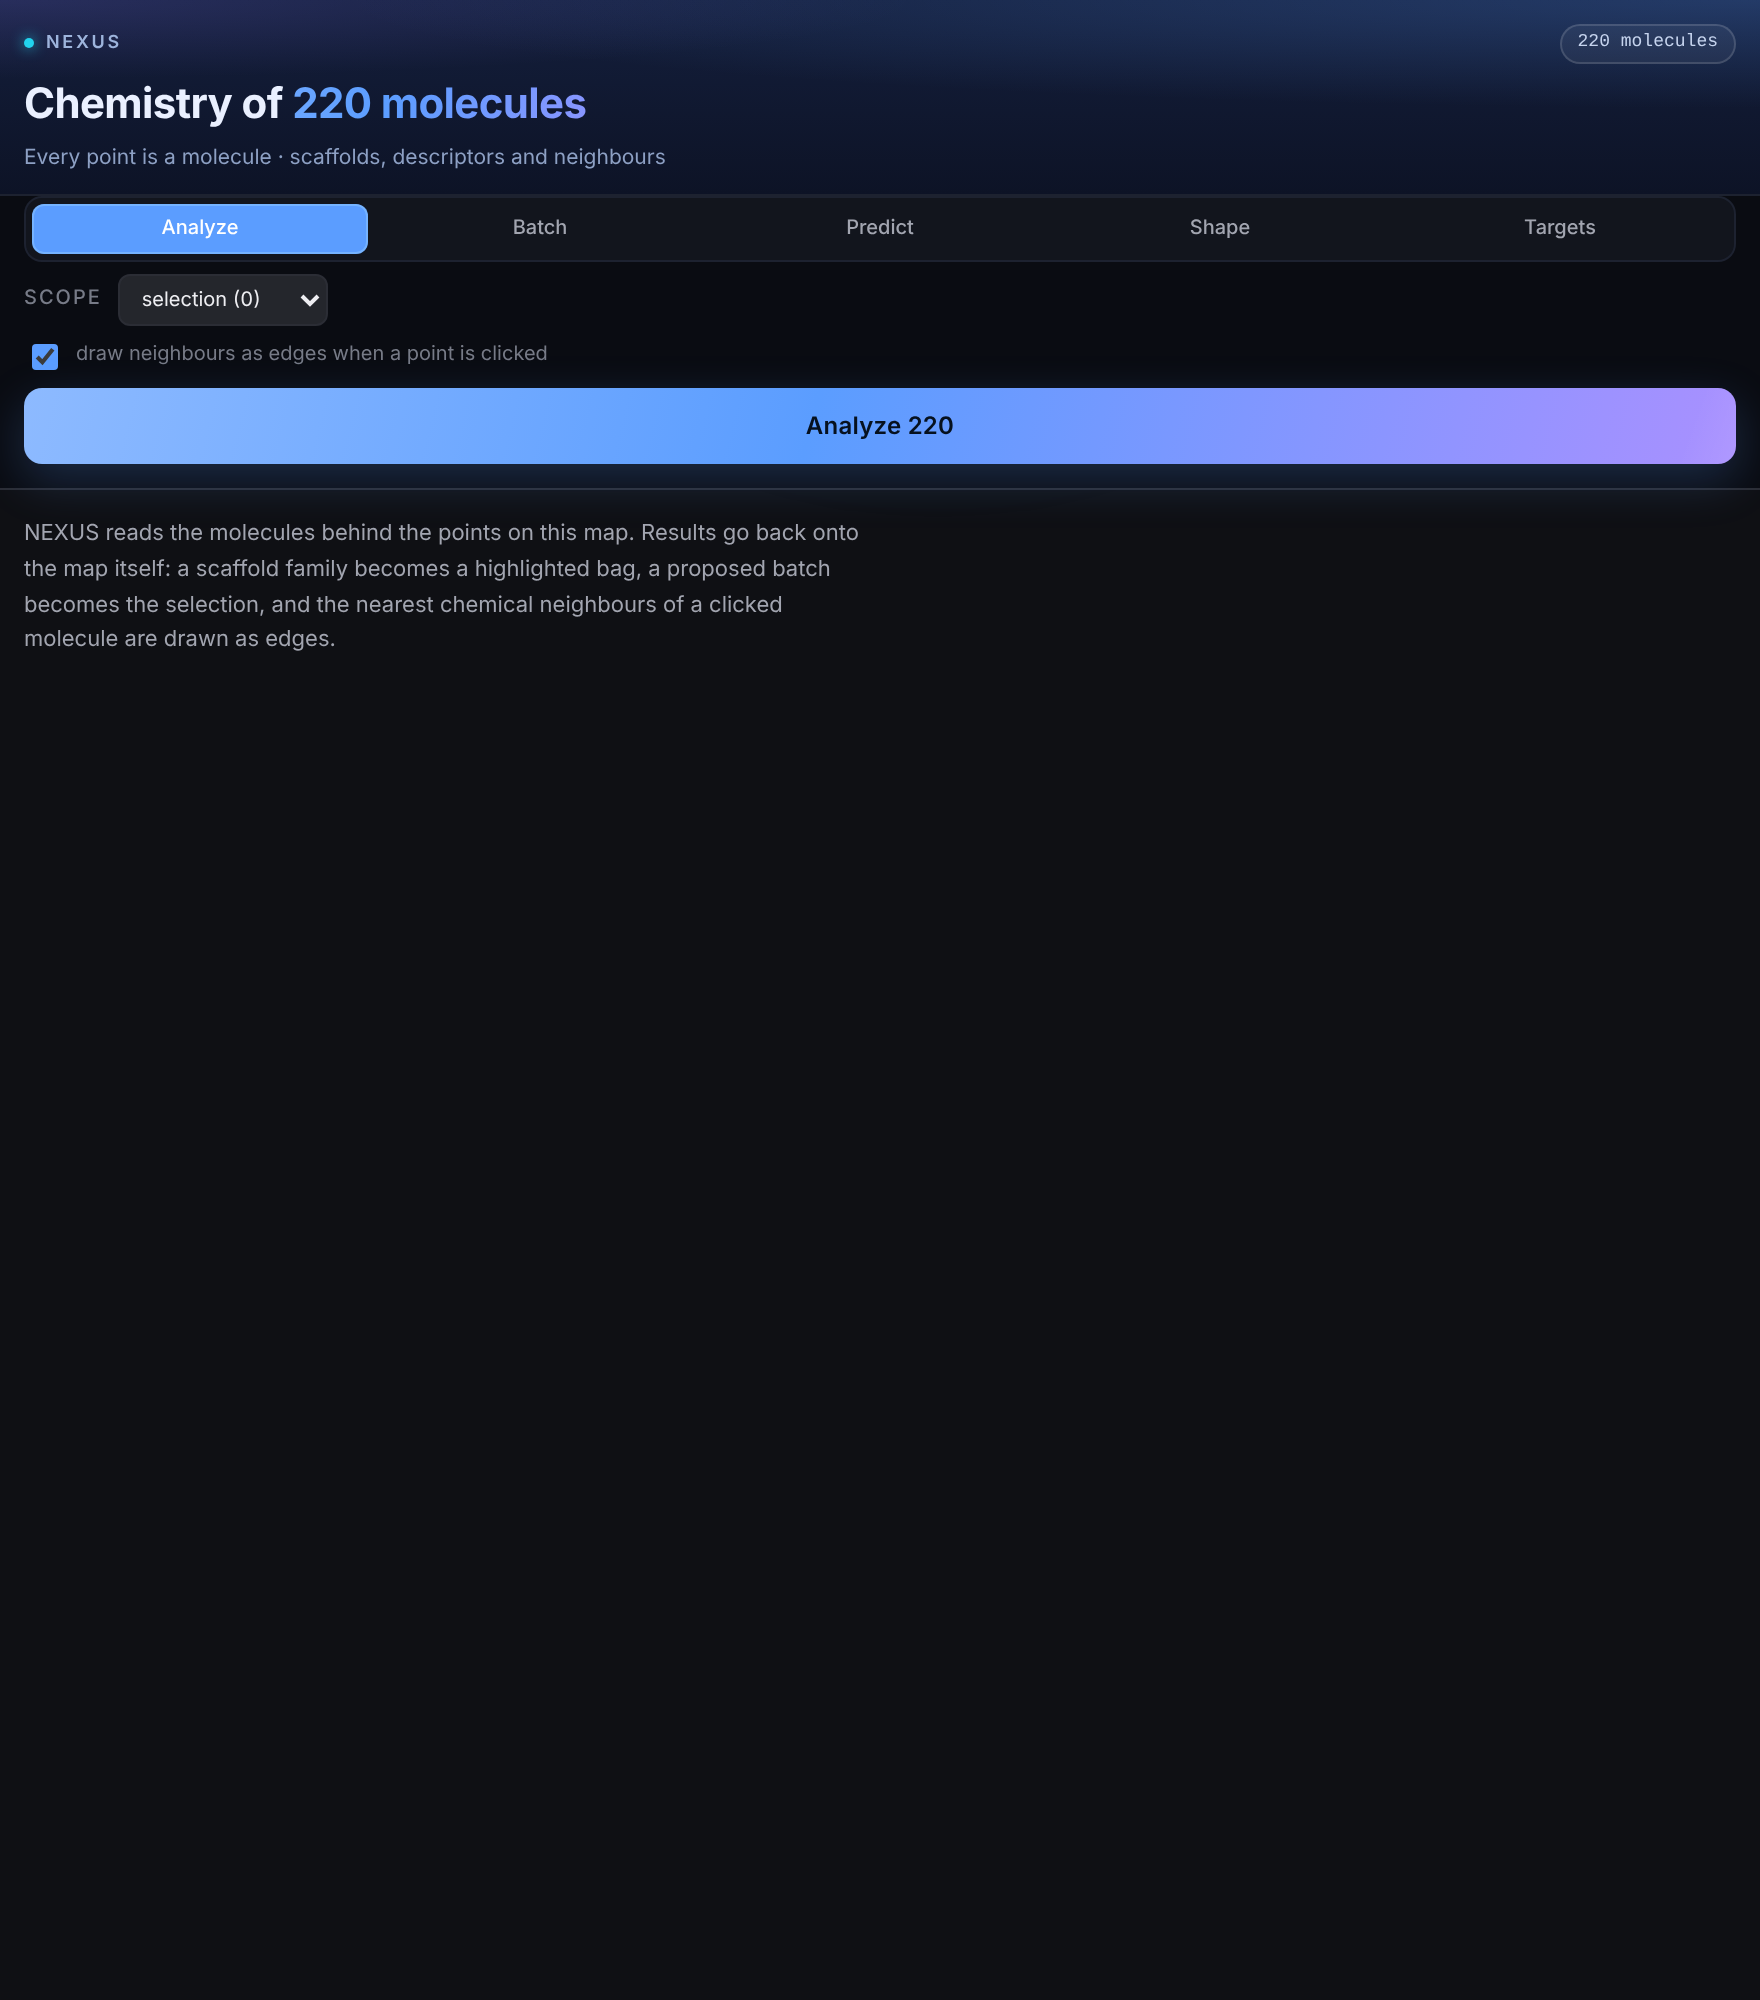
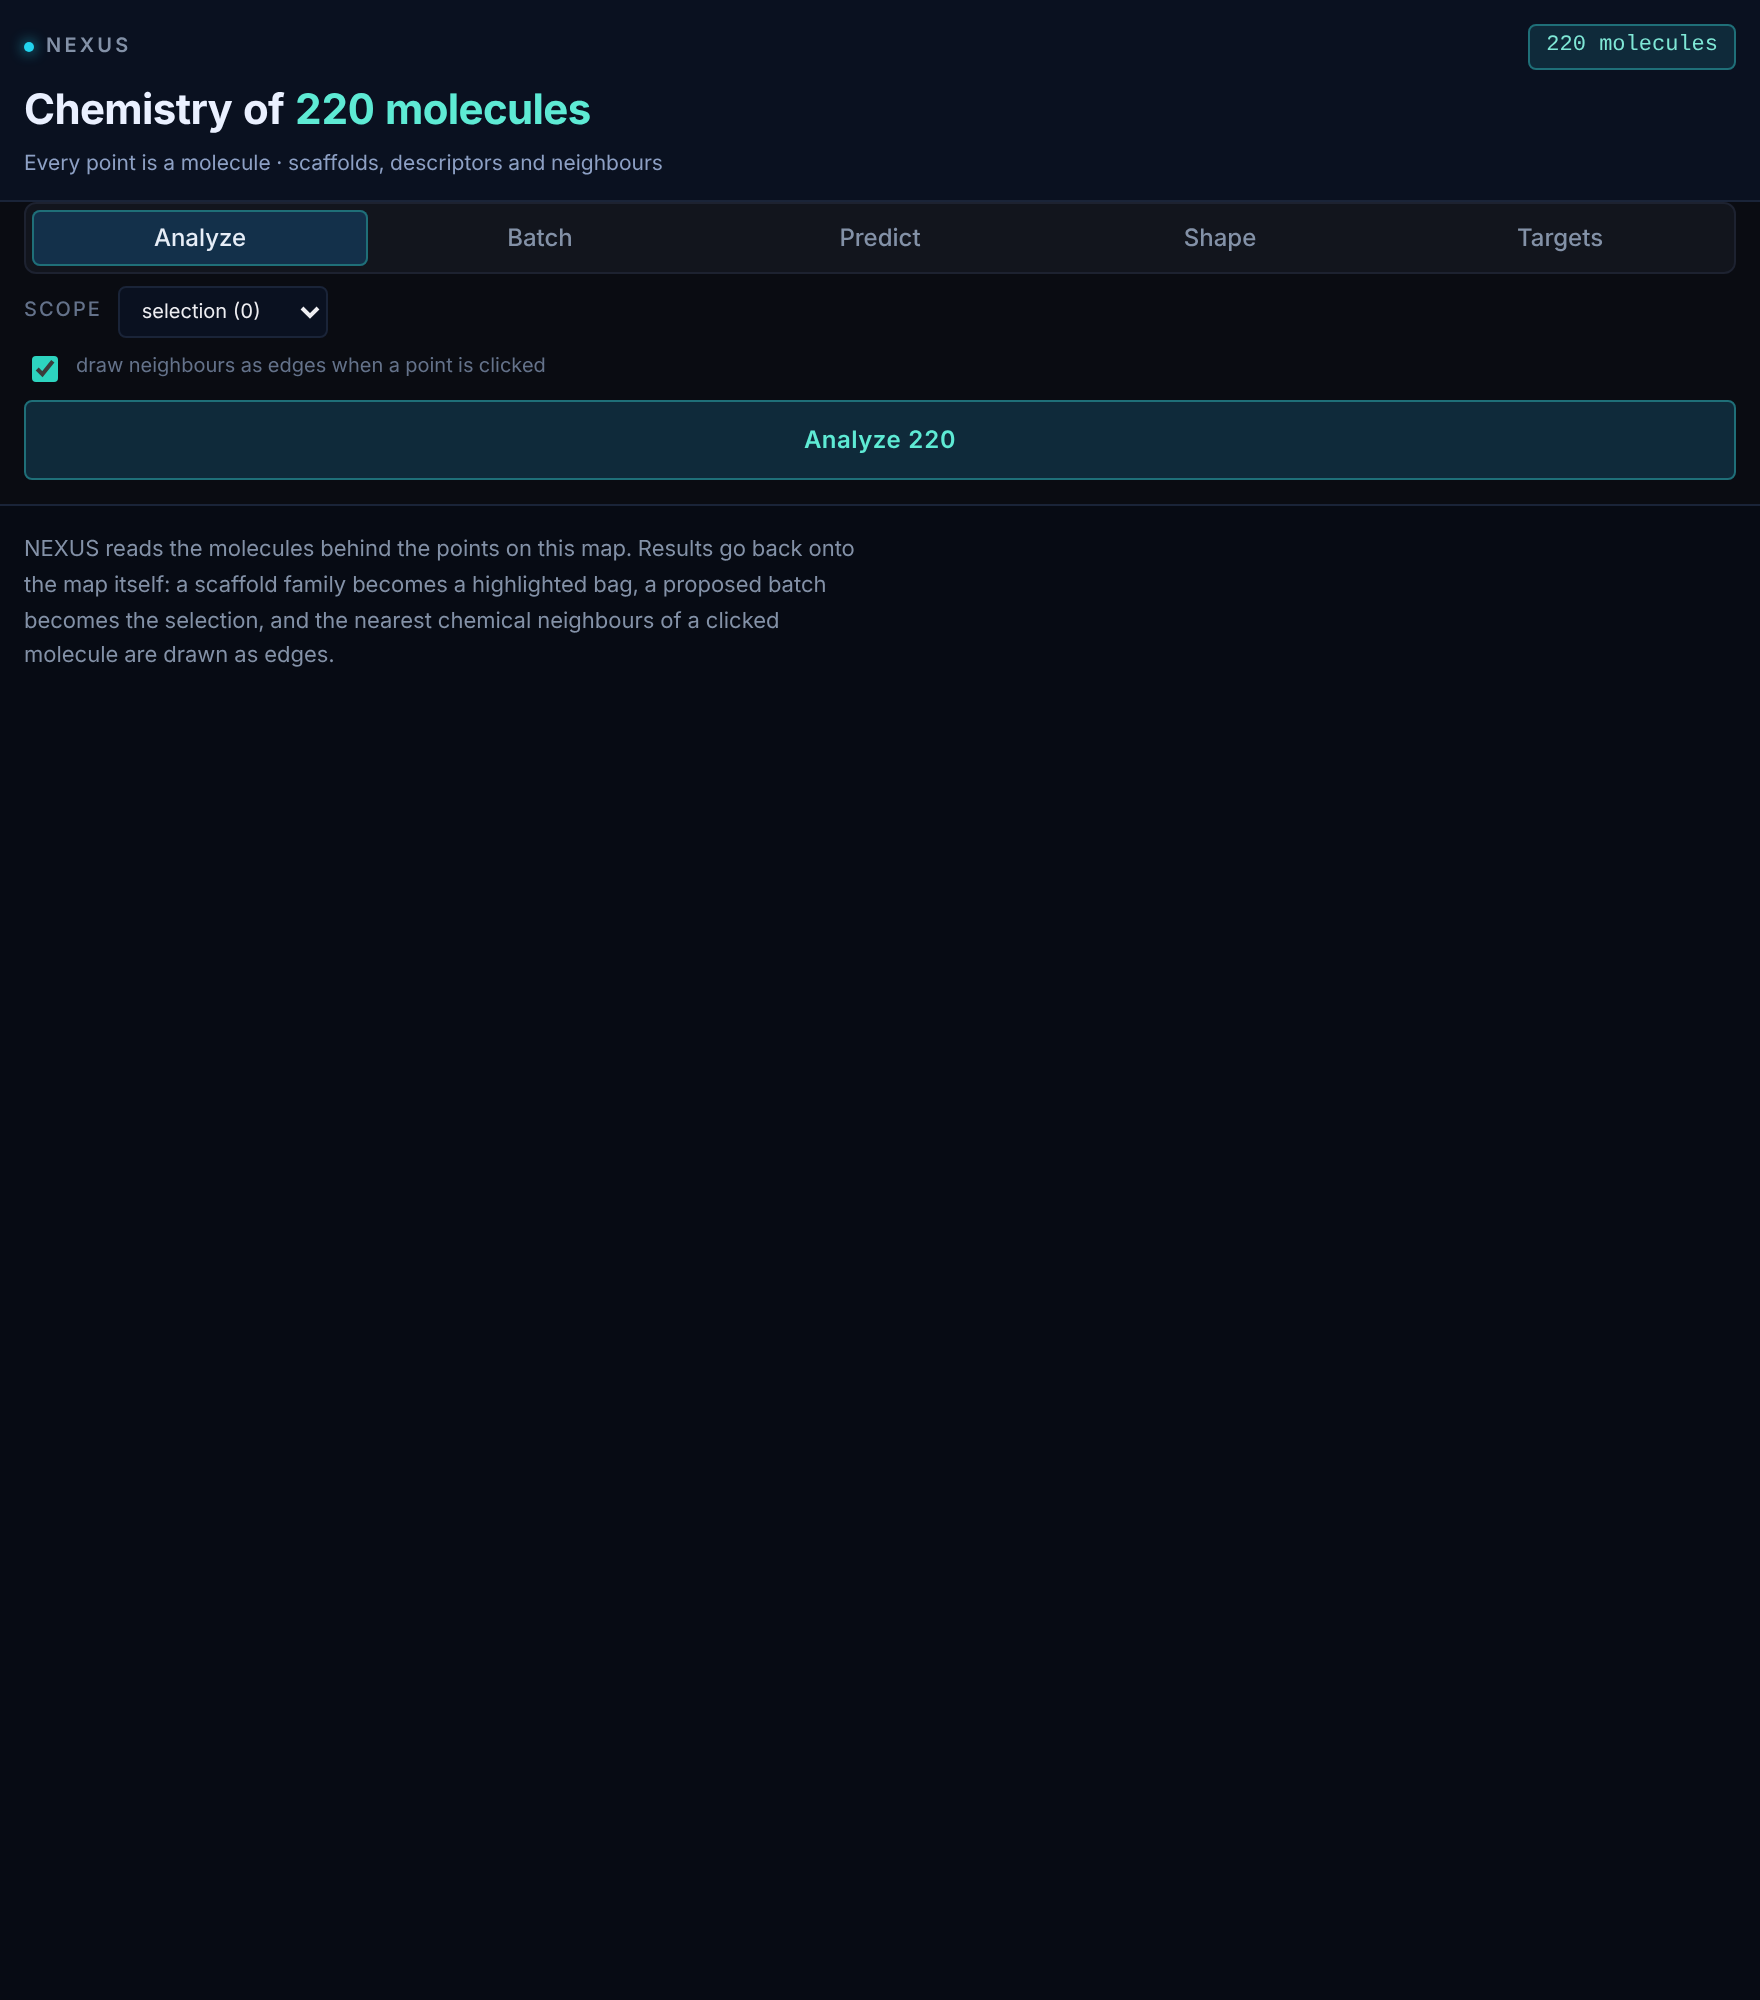
Panel: analyst-dashboard theme (navy, flat hairline panels, teal accent, dense KPI strip)

diff --git a/extension/src/panel.css b/extension/src/panel.css
@@ -618,3 +618,44 @@ body {
 @keyframes nexus-pulse { 0% { box-shadow: 0 0 0 0 rgb(103 232 249 / 0.45); } 100% { box-shadow: 0 0 0 8px rgb(103 232 249 / 0); } }
 @keyframes nexus-rise { from { opacity: 0; transform: translateY(8px); } to { opacity: 1; transform: none; } }
 .nexus-root { --nx-panel: #0b0d13; --nx-panel-raised: #0e1118; --nx-chrome: #0d1017; --nx-border: #1c2130; }
+
+/* ── v0.6 · Atlas layer ────────────────────────────────────────────────────
+   Dense analyst-dashboard look: deep navy, flat hairline panels, small square
+   corners, uppercase section rails, mono figures, teal accent. Replaces the
+   glow and gradients of the studio layer with restraint. */
+.nexus-root {
+    --nx-canvas: #070b14; --nx-panel: #0b1220; --nx-panel-raised: #0e1626; --nx-chrome: #0a1120;
+    --nx-border: #1a2438; --nx-foreground: #e6edf7; --nx-muted: #8391a7; --nx-accent: #2dd4bf;
+    --nx-radius-panel: 6px; --nx-radius-control: 4px;
+    background: #070b14; font-feature-settings: "tnum" 1;
+}
+.nexus-root::before { display: none; }
+.nexus-hero, .nexus-root header { background: #0a1120; border-bottom: 1px solid #1a2438; }
+.nexus-title-key, .nexus-mark { background: none; -webkit-background-clip: initial; background-clip: initial; color: #5eead4 !important; animation: none !important; }
+.nexus-eyebrow { color: #8391a7; letter-spacing: .16em; font-size: 10px; }
+.nexus-card { background: #0b1220; border: 1px solid #1a2438; border-radius: 6px; box-shadow: none; }
+.nexus-card::after { display: none; }
+.nexus-card:hover { transform: none; box-shadow: none; border-color: #26344f; }
+.nexus-card-head { font-size: 10.5px; letter-spacing: .14em; color: #c9d4e5; padding-bottom: 8px; border-bottom: 1px solid #1a2438; margin-bottom: 10px; }
+.nexus-card-meta { color: #6b7a92; letter-spacing: .02em; text-transform: none; }
+.nexus-tiles { gap: 0 !important; border: 1px solid #1a2438; border-radius: 6px; overflow: hidden; background: #0a1120; }
+.nexus-tiles > * { background: transparent !important; border: 0 !important; border-right: 1px solid #1a2438 !important; border-radius: 0 !important; box-shadow: none !important; }
+.nexus-tiles > *:last-child { border-right: 0 !important; }
+.nexus-tiles > *::before { display: none; }
+.nexus-tiles .tabular-nums, .nexus-tiles strong, .nexus-tiles b { font-family: var(--nx-font-sans); font-weight: 700; letter-spacing: -0.01em; }
+.nexus-tabs { background: #0a1120; border: 1px solid #1a2438; border-radius: 6px; padding: 3px; }
+.nexus-tabs button { border-radius: 4px; color: #8391a7; font-size: 12px; }
+.nexus-tabs button[aria-pressed="true"] { background: #13304a; color: #e6edf7; box-shadow: inset 0 0 0 1px #1f6f78; }
+.nexus-run { background: #0f2a3a; color: #5eead4; border: 1px solid #1f6f78; border-radius: 4px; box-shadow: none; font-weight: 600; letter-spacing: .02em; }
+.nexus-run::after { display: none; }
+.nexus-run:hover:not(:disabled) { background: #12384b; filter: none; }
+.nexus-chip, .nexus-hero-pill, .nexus-families button { background: #0f2a3a; color: #7fe7d6; border: 1px solid #1f6f78; border-radius: 4px; font-size: 11px; }
+.nexus-row select, .nexus-row input[type="number"] { background: #0a1120; border: 1px solid #1a2438; border-radius: 4px; }
+.nexus-live { background: #2dd4bf; animation: nexus-pulse 2.2s ease-out infinite; }
+.nexus-stack > * { animation-duration: 360ms; }
+.nexus-body table { border-collapse: collapse; }
+.nexus-body th { color: #8391a7; font-weight: 500; text-transform: uppercase; letter-spacing: .1em; font-size: 9.5px; border-bottom: 1px solid #1a2438; }
+.nexus-body td { border-bottom: 1px solid #131c2d; }
+.nexus-body tr:hover td { background: #0e1a2c; }
+.nexus-run { color: #5eead4 !important; background: #0f2a3a !important; }
+.nexus-tabs button[aria-pressed="true"] { background: #13304a !important; color: #e6edf7 !important; box-shadow: inset 0 0 0 1px #1f6f78 !important; }

diff --git a/mantis/src/app/components/panels/nexus/theme.ts b/mantis/src/app/components/panels/nexus/theme.ts
@@ -57,14 +57,14 @@ const DARK: NexusTheme = {
     // so it inherits none of the host's custom properties; copying keeps the
     // panel in step with the chrome around it, and any drift is a one-line
     // change here against src/styles/design-tokens.css.
-    bg: '#0f1014',                                  // --workspace-canvas
-    surface: '#191a1f',                             // --workspace-panel
-    surfaceInset: '#24262c',                        // --workspace-panel-raised
-    line: '#2b2d35',                                // --workspace-border
-    lineStrong: '#434652',                          // --workspace-border-strong
+    bg: '#070b14',                                  // --workspace-canvas
+    surface: '#0b1220',                             // --workspace-panel
+    surfaceInset: '#0a1120',                        // --workspace-panel-raised
+    line: '#1a2438',                                // --workspace-border
+    lineStrong: '#2a3a57',                          // --workspace-border-strong
     text: '#eeeef2',                                // --workspace-foreground
-    text2: '#a2a5b0',                               // --workspace-muted
-    text3: '#777b87',                               // between muted and border-strong
+    text2: '#8391a7',                               // --workspace-muted
+    text3: '#64728a',                               // between muted and border-strong
     grid: 'rgba(255, 255, 255, 0.06)',
     // Chrome and data marks are not the same job. Mantis's workspace tones
     // are accents for chrome, and as a categorical set on #191a1f they fail
@@ -72,17 +72,17 @@ const DARK: NexusTheme = {
     // dE 6.7 protan). Data marks therefore use a set validated against this
     // surface -- worst all-pairs CVD dE 9.4, normal-vision 20.9 -- while the
     // accent, gradient and status colours below stay Mantis's own.
-    series: ['#3987e5', '#d95926', '#199e70'],
+    series: ['#2dd4bf', '#f59e0b', '#60a5fa'],
     // Single hue, dim to bright on a dark surface, anchored on the azure the
     // workspace accents with.
-    ramp: ['#17243a', '#1d3a66', '#245593', '#006aff', '#5b9dff', '#8dbaff', '#cbdfff'],
-    diverging: { low: '#5b9dff', mid: '#6b7280', high: '#f07a9e' },
-    accent: '#5b9dff',                              // --workspace-accent
+    ramp: ['#0d2a33', '#0f3d47', '#11585f', '#14787a', '#1fa192', '#4fd1b8', '#b3f5e6'],
+    diverging: { low: '#2dd4bf', mid: '#475569', high: '#f59e0b' },
+    accent: '#2dd4bf',                              // --workspace-accent
     good: '#3ed68c',                                // --workspace-tone-green
     warn: '#ffb84d',                                // --workspace-tone-amber
     crit: '#ff7aa8',                                // --workspace-tone-rose
-    gradient: 'linear-gradient(104deg, #8dbaff 0%, #5b9dff 46%, #a990ff 100%)',
-    tooltipBg: 'rgba(25, 26, 31, 0.97)',
+    gradient: 'linear-gradient(90deg, #0f2a3a 0%, #12384b 100%)',
+    tooltipBg: 'rgba(10, 17, 32, 0.97)',
 };
 
 const LIGHT: NexusTheme = {
